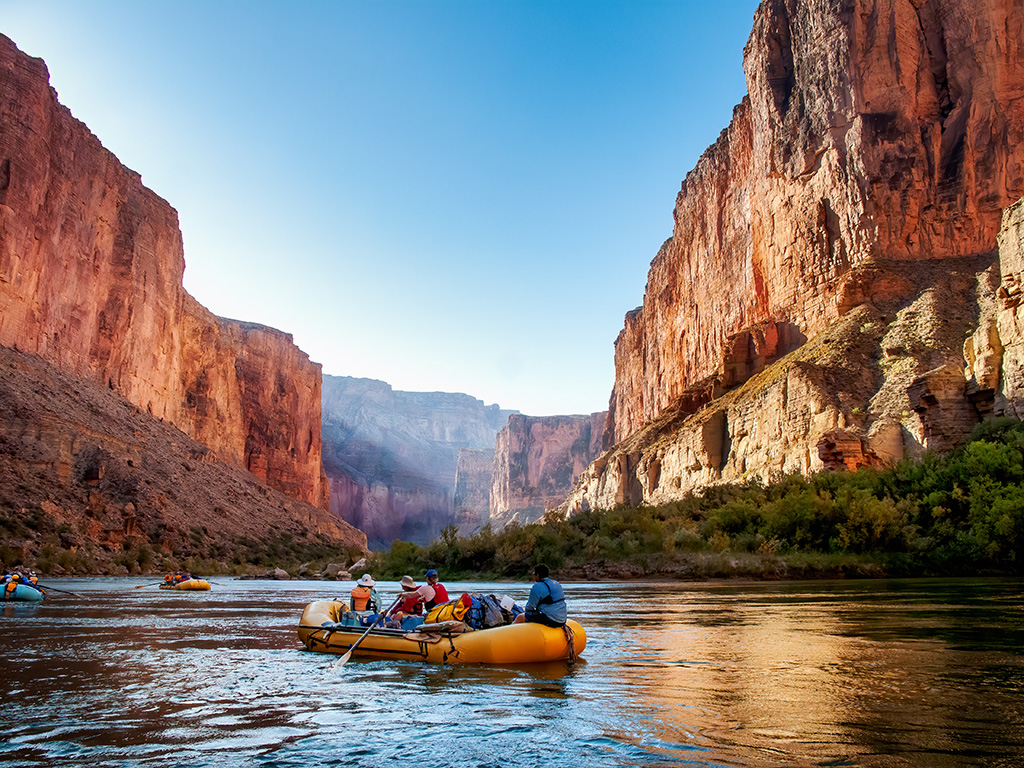
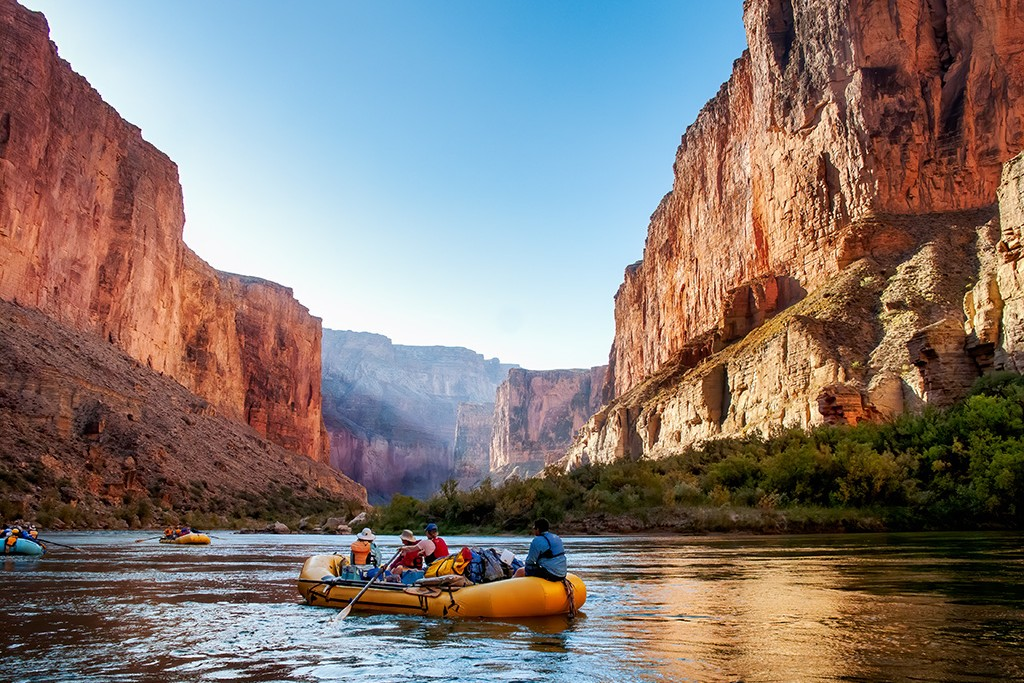
in progress

diff --git a/wwr/Trips.html b/wwr/Trips.html
@@ -23,7 +23,7 @@
         </header>
         <div id="hero">
             <div id="hero-box">
-                <img id="hero-img" src="images/littlecolorado-wide.jpg" alt="People enjoying white water rafting">
+                <img id="hero-img" src="images/image_fx_ (4).jpg" alt="People enjoying white water rafting">
             </div>
             <section id="hero-msg">
                 <h1 class="trips-title">Find the Perfect Adventure</h1>
@@ -36,27 +36,44 @@
         <main class="selection">
             <section class="low">
                 <div>
-                    <h2 class="low-title">Low Water Trips</h2>
+                    <h2 class="low-title">Gentle River Escapes</h2>
                     <img src="images/low-rft.jpg" alt="">
 
                 </div>
-                <p></p>
+                <p>Experience the serenity of gentle waters as you glide through stunning landscapes. Our low water trips are perfect for families and beginners, offering a relaxing adventure that allows you to soak in the beauty of nature. Enjoy the thrill of the river at a comfortable pace while spotting wildlife and enjoying the peaceful surroundings.</p>
             </section>
             <section class="medium">
                 <div>
-                    <h2 class="medium-title">Medium Water</h2>
+                    <h2 class="medium-title">Exciting Rapids</h2>
                     <img src="images/med-rft.jpg" alt="">
                 </div>
-                <p></p>
+                <p>Navigate through playful rapids and enjoy moderate challenges that will keep you engaged. For those seeking a balance of excitement and relaxation, our medium water trips provide the perfect adventure. This is an ideal choice for those with some rafting experience looking to enhance their skills while still enjoying breathtaking scenery and camaraderie with fellow adventurers.</p>
             </section>
             <section class="high">
                 <div>
-                    <h2 class="high-title">High Water Trips</h2>
+                    <h2 class="high-title">Extreme Whitewater Thrills</h2>
                     <img src="images/high-rft.jpg" alt="">
                 </div>
-                <p></p>
+                <p>Prepare for an adrenaline-pumping experience on our high water trips! Feel the rush as you navigate through intense whitewater, surrounded by stunning landscapes. These thrilling adventures are designed for experienced rafters ready to tackle powerful rapids and challenging conditions. This is the ultimate choice for thrill-seekers looking to push their limits and embrace the wild side of rafting!</p>
             </section>
         </main>
+        <section id="fish">
+            <div id="hook"> 
+                <div class="bubble">
+                    <img class="smiles" src="images/fam-rft.jpg" alt="Family Enjoying the River">
+                    <section class="txt">
+                        <h2>Experience Unforgettable Family Adventures on the Water!</h2>
+                        <p>Get ready for a day filled with laughter, excitement, and unforgettable memories! Our family-friendly rafting trips are designed to provide thrills for adventurers of all ages. Whether you're navigating gentle rapids or splashing through playful waves, every moment is an opportunity for fun and bonding. </p>
+                        <div class="plan">
+                            <h6>Click here to plan your family adventure today!</h6>
+                            <a class='join' href="rivers.html">Join Us</a>
+                        </div>
+                        
+                    </section>
+                </div>
+            </div>
+            <img src="images/fx8.jpg" class="background-image" alt="Canyon River Image">
+        </section>
         <footer>
             <p>Wdd130 | Logan Young</p>
             <p><a href="site-plan-rafting.html">Site Plan</a></p>

diff --git a/wwr/styles/style.css b/wwr/styles/style.css
@@ -1,4 +1,4 @@
-@import url('https://fonts.googleapis.com/css2?family=Josefin+Sans:ital,wght@0,100..700;1,100..700&family=Roboto:ital,wght@0,100;0,300;0,400;0,500;0,700;0,900;1,100;1,300;1,400;1,500;1,700;1,900&family=Rock+Salt&display=swap');
+@import url('https://fonts.googleapis.com/css2?family=Josefin+Sans:ital,wght@0,100..700;1,100..700&family=Permanent+Marker&family=Roboto+Flex:opsz,wght@8..144,100..1000&display=swap');
 #content{
   background-color: #ffffff;
   max-width: 1600px;
@@ -46,6 +46,7 @@ nav a{
 }
 nav a:hover{
   background-color: #87b185;
+  color: #3d5b3c;
 }
 #background { 
   height: 725px;
@@ -74,7 +75,7 @@ h2{
 #hero-msg {
   grid-column: 2/3;
   grid-row: 1/2;
-  margin-top: 50px;
+  margin-top: 250px;
 }
 .home-title{
   color: #d9c2a3;
@@ -195,6 +196,10 @@ main {
   padding-bottom: 15px;
 }
 /* ---------trips--------- */ 
+.trips-title{
+  font-family: 'Permanent Marker';
+  color: #feead1;
+}
 .selection{
   display: grid;
   grid-template-columns: repeat(3, 1fr);
@@ -204,14 +209,93 @@ main {
   max-height: 300px;
 }
 .low{
-  grid-column: ;
+  grid-row: 1/2;
+  background-color: #feead1;
+  margin: 20px;
+  box-shadow: 5px 5px 10px #d9c2a3;
+  padding: 10px;
 }
-.med{
-  grid-column: ;
+.medium{
+  grid-row: 1/2;
+  background-color: #feead1;
+  margin: 20px;
+  box-shadow: 5px 5px 10px #d9c2a3;
+  padding: 10px;
 }
 .high{
-  grid-column: ;
+  grid-row: 1/2;
+  background-color: #feead1;
+  margin: 20px;
+  box-shadow: 5px 5px 10px #d9c2a3;
+  padding: 10px;
+}
+.selection p, .selection h2 {
+  padding: 20px;
+  color: #004463;
+}
+#fish{
+  position: relative;
+}
+.background-image{
+  position: absolute;
+  top: 0;
+  left: 0;
+  width: 100%;
+  height: 100%;
+  object-fit: cover;
+  z-index: 1;
+}
+#hook{
+  display: flex;
+  justify-content: center;
+  align-items: center;
+  flex-direction: column;
+  height: 725px;
+  margin-top: 80px;
+}
+
+.bubble{
+  display: flex;
+  justify-content: center;
+  z-index: 2;
+  align-items: center;
+  max-width: 1200px;
+  margin: 0 auto;
+}
+.smiles{
+  grid-column: 2/10;
+  grid-row: 2/10;
+  text-align: center;
+  margin: 0 auto;
+  max-width: 100%;
+  box-shadow: 5px 5px 10px #2d2d2d;
   
+}
+.txt{
+  grid-column: 11/16;
+  grid-row: 2/7;
+  text-align: center;
+  background-color: rgb(246, 223, 194, 0.3); 
+  height: 400px;
+  margin: 0 auto;
+  margin-left: 20px;
+  box-shadow: 5px 5px 10px #2d2d2d;
+}
+.txt h2{
+  padding-top: 30px;
+  color: #feead1;
+}
+.txt p{
+  color: #f6dfc2;
+}
+.plan{
+  margin: 0 auto;
+  max-width: 280px;
+  text-align: center;
+}
+.plan a h4{
+  text-align: center;
+  padding: 5px;
 }
 /* ----------------------- */
 footer{
